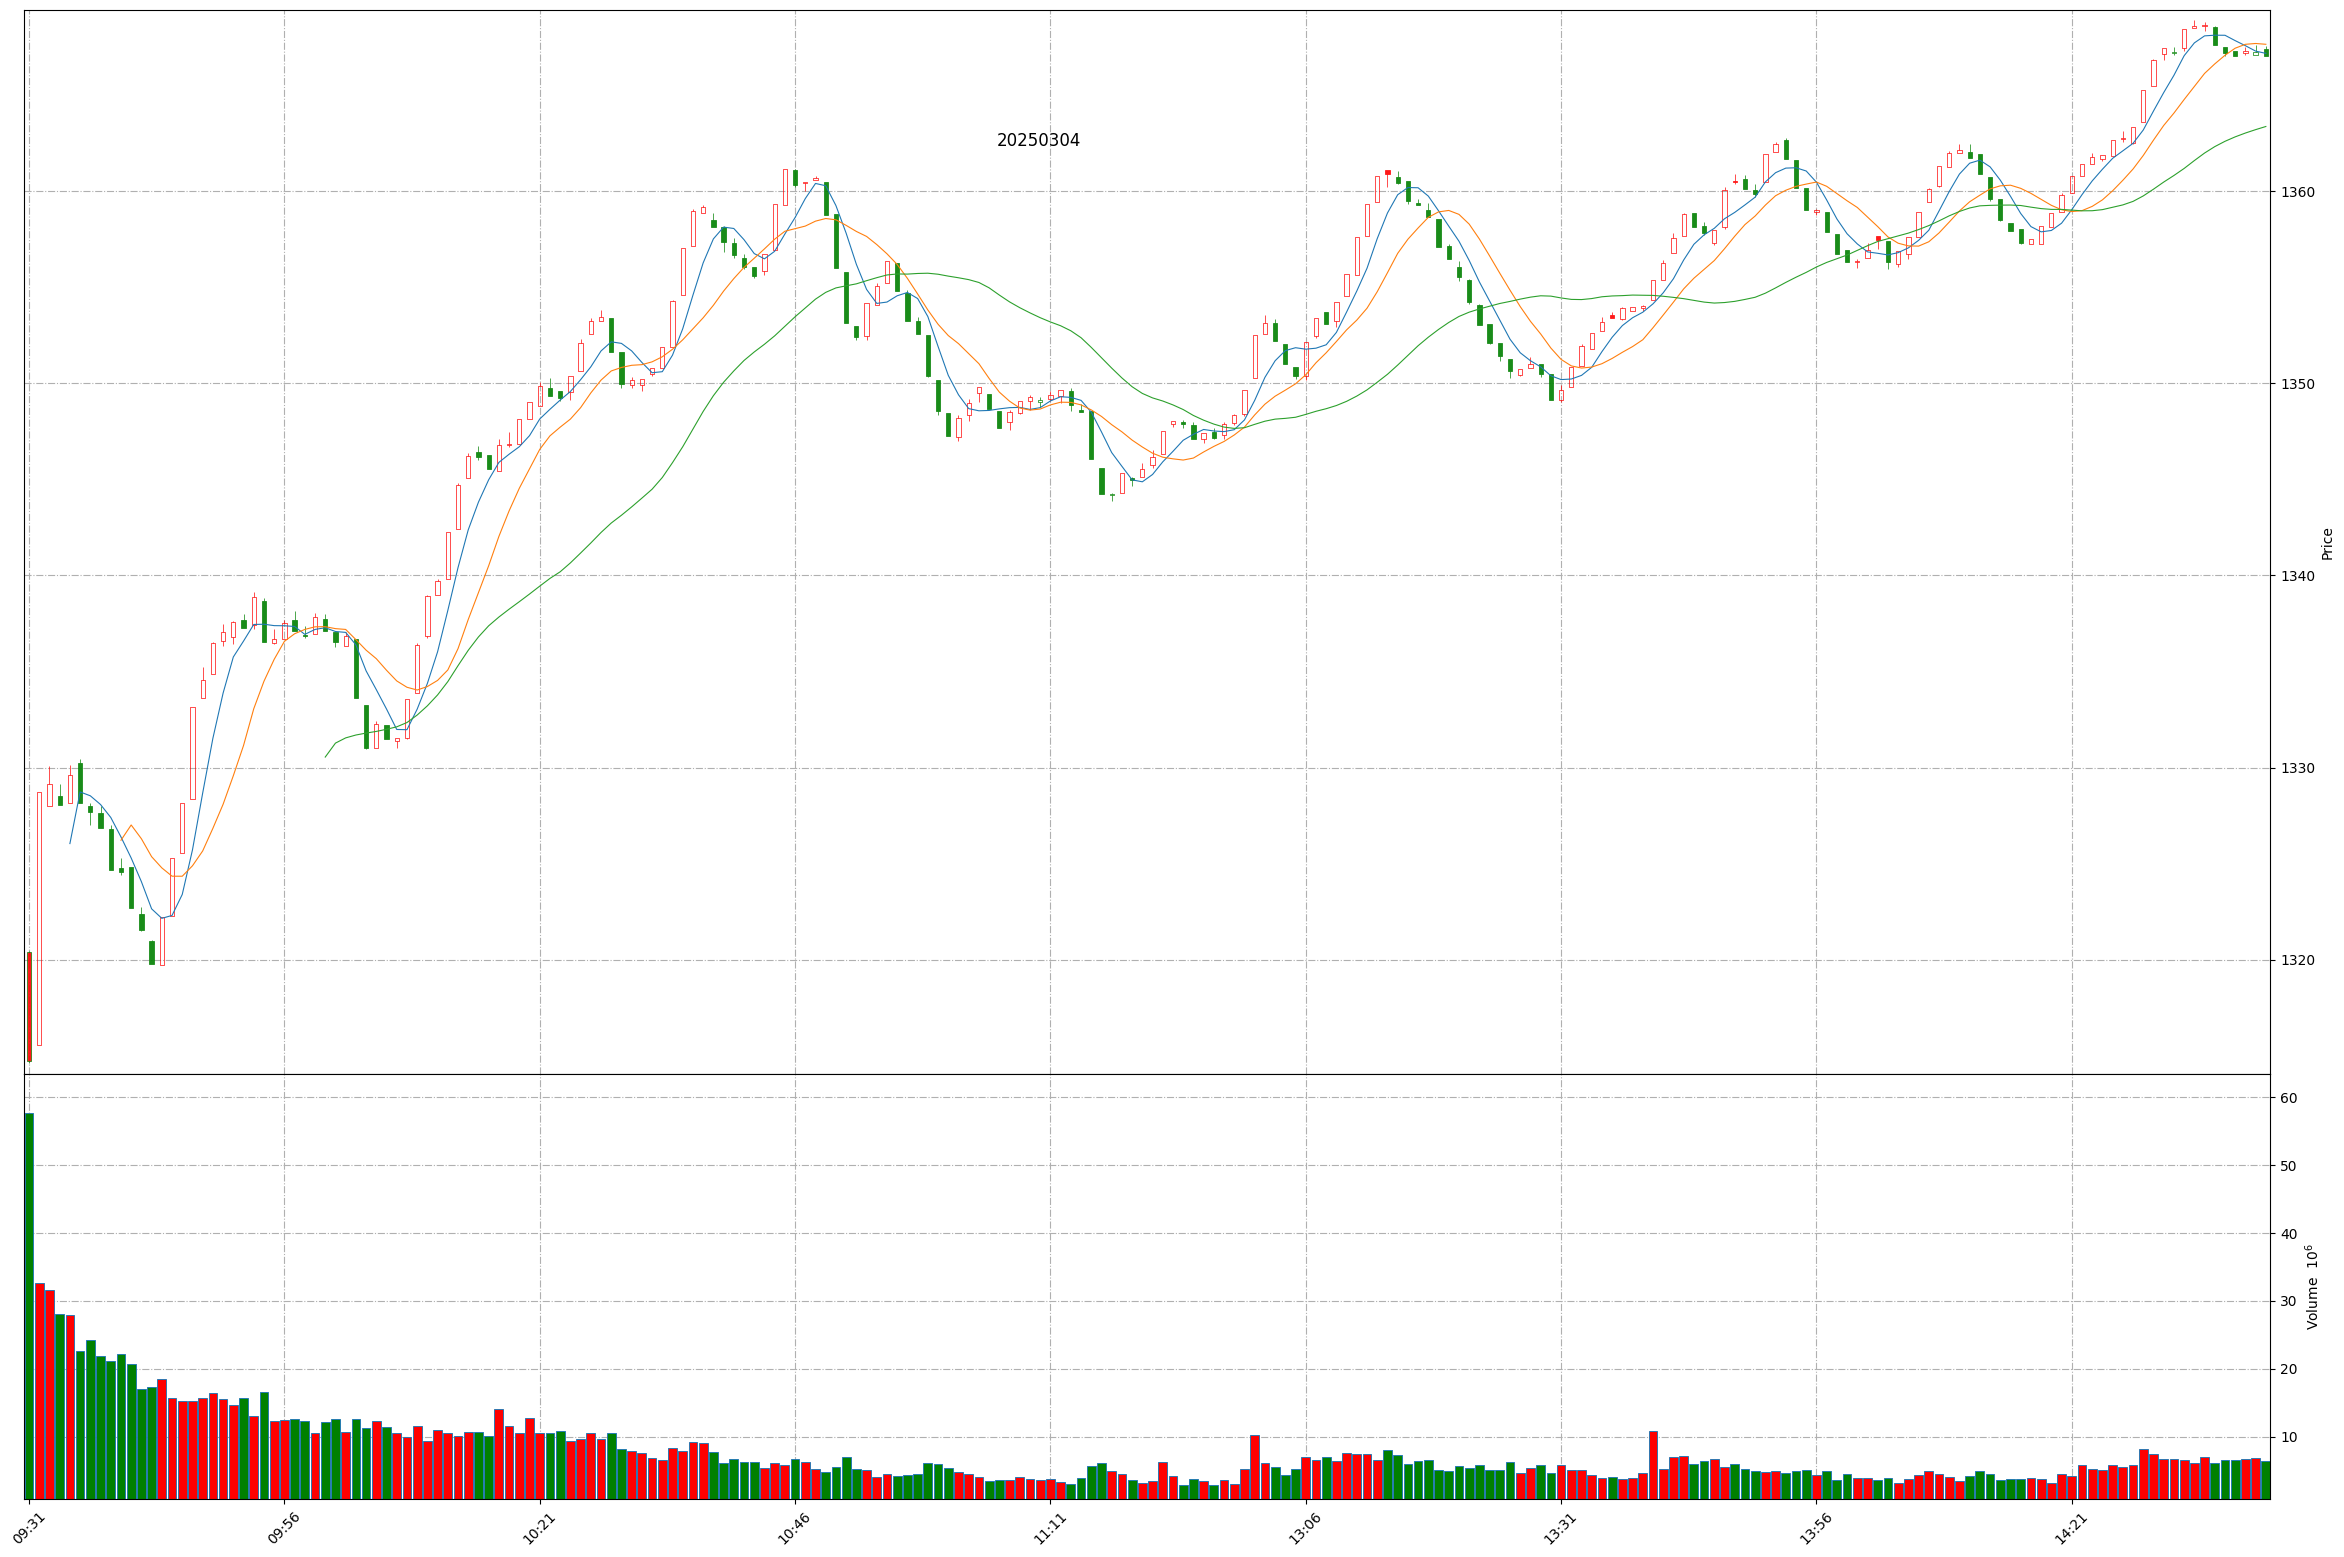
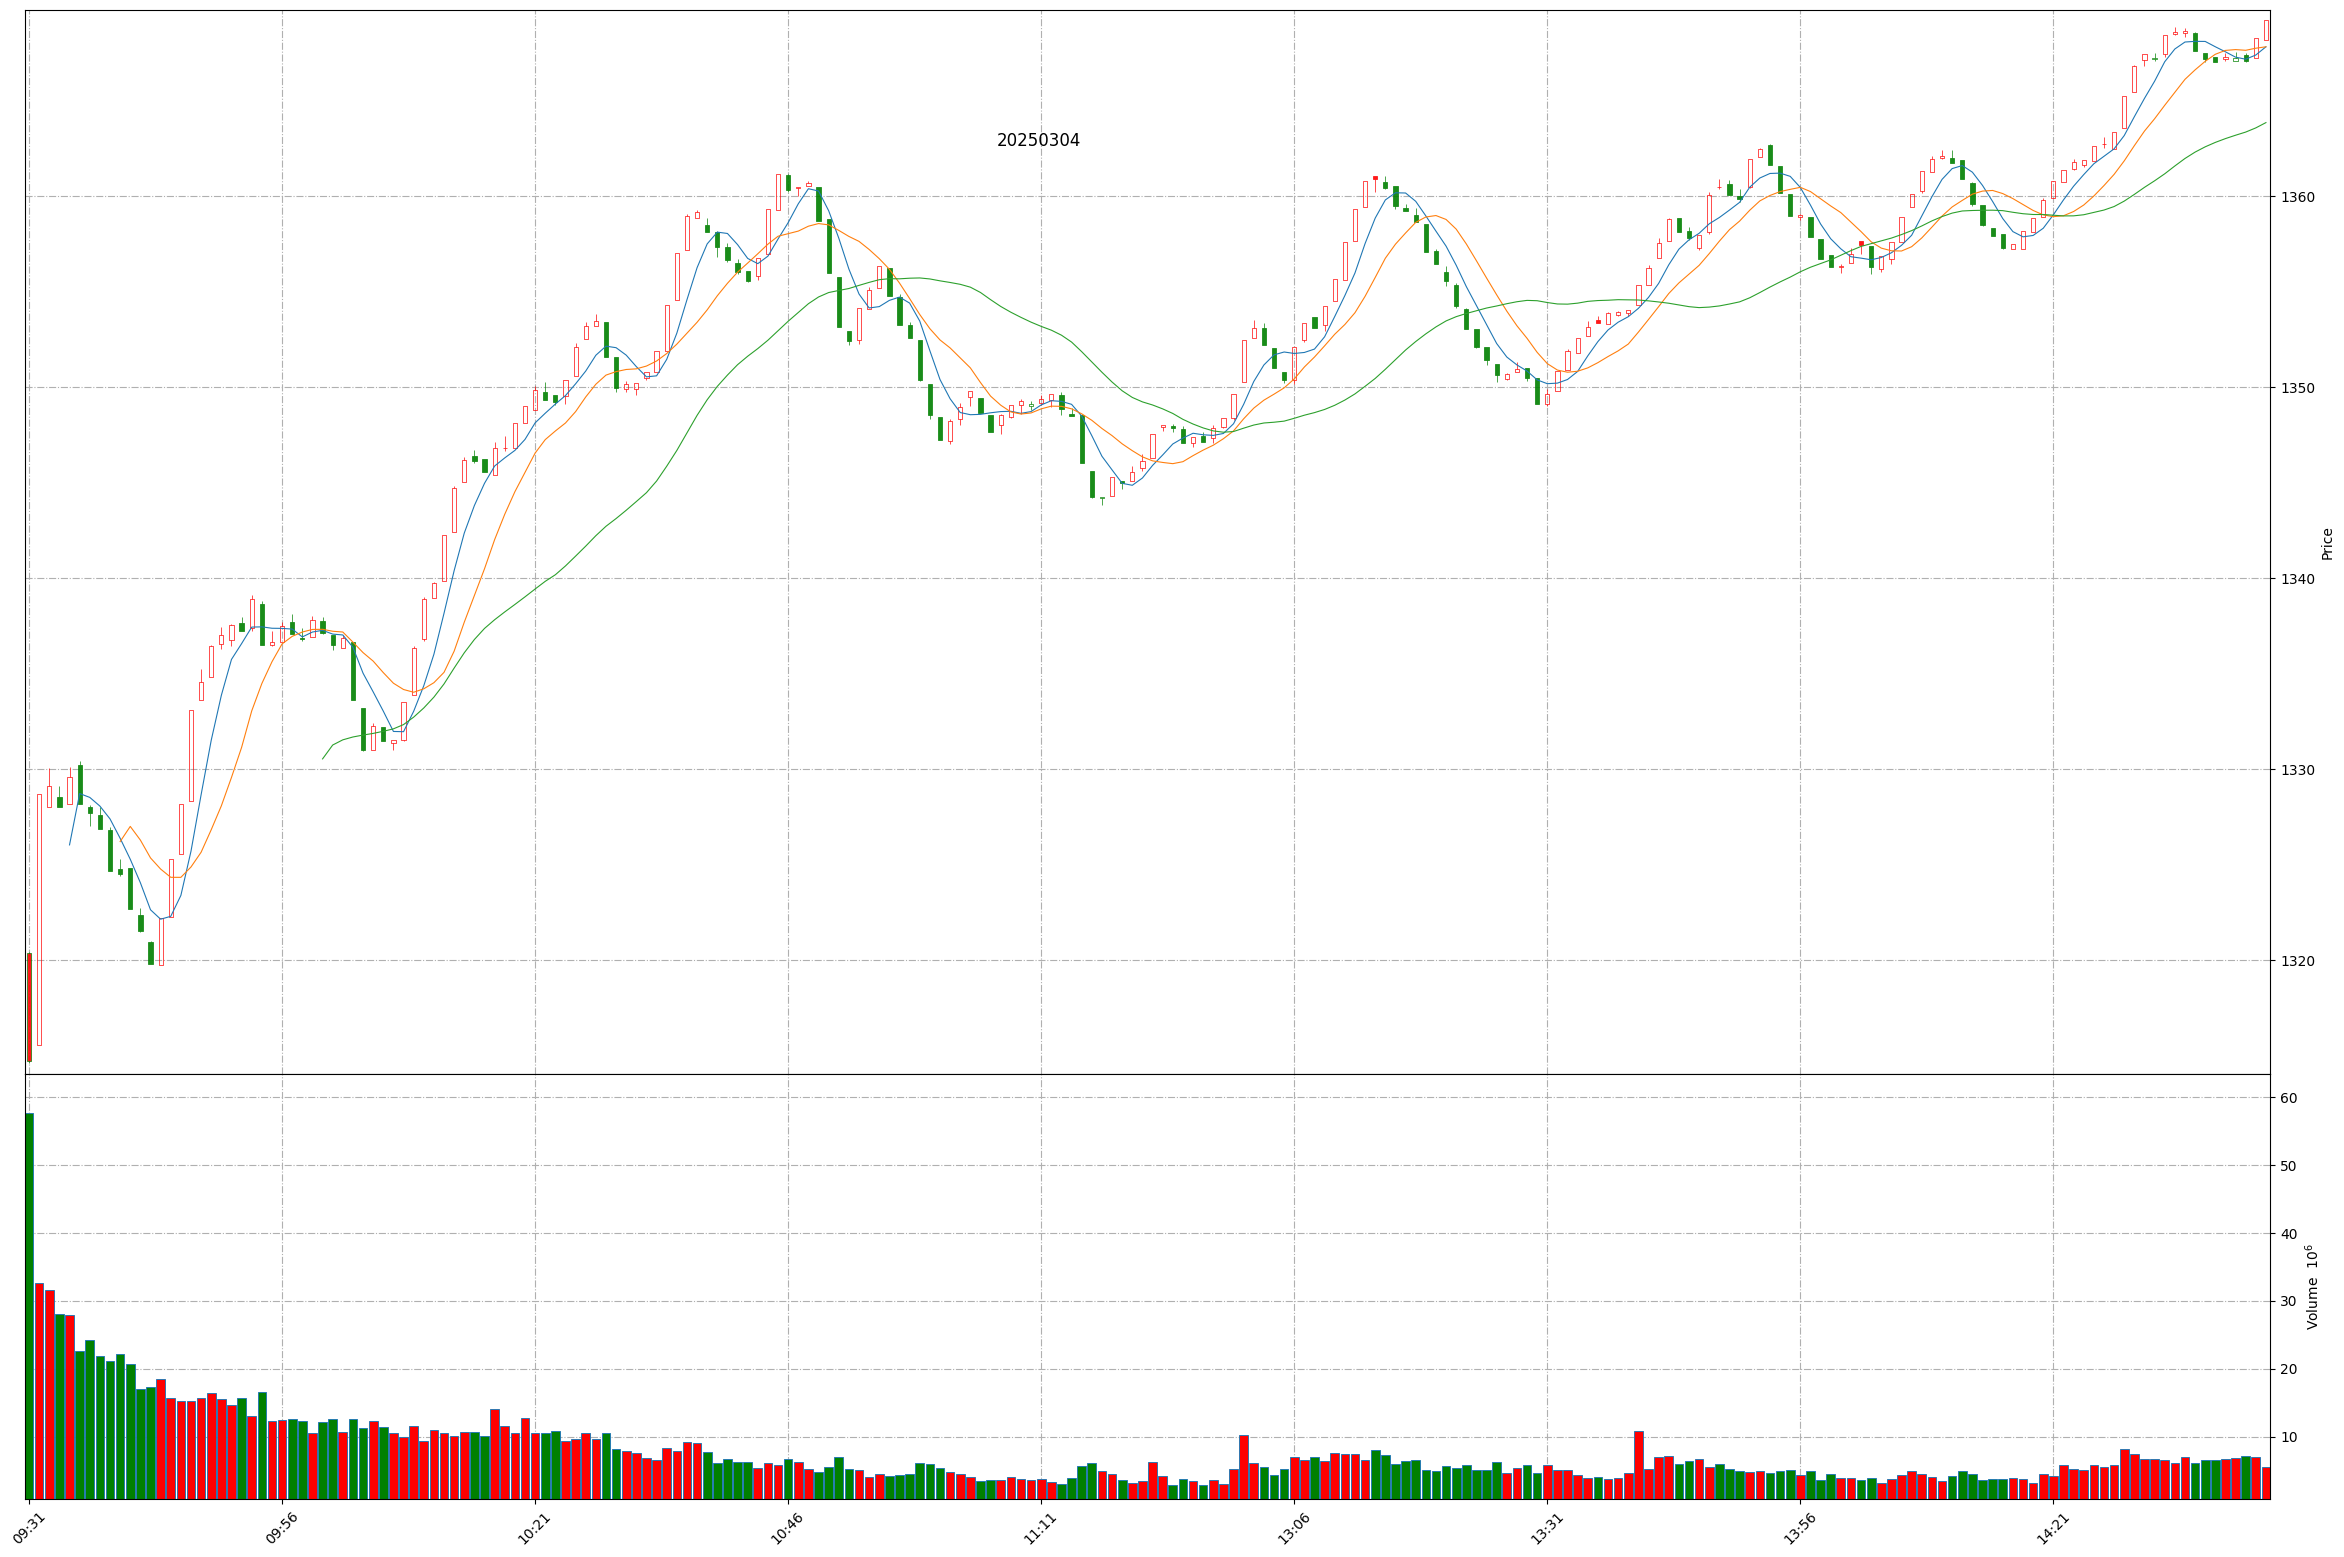
Github action update at 2025-03-04 14:41:45.

diff --git a/README.md b/README.md
@@ -1,11 +1,11 @@
 
 # Daily-A-share-market-quotes 每日 A 股指数（5min 更新）- 20250304
 
-### 上证指数 20250304 14:40
+### 上证指数 20250304 14:41
 ![](./fig/2025/3/20250304-sh000001.png)
 
-### 深证成指 20250304 14:40
+### 深证成指 20250304 14:41
 ![](./fig/2025/3/20250304-sz399001.png)
 
-### 北证50 20250304 14:40
+### 北证50 20250304 14:41
 ![](./fig/2025/3/20250304-bj899050.png)
